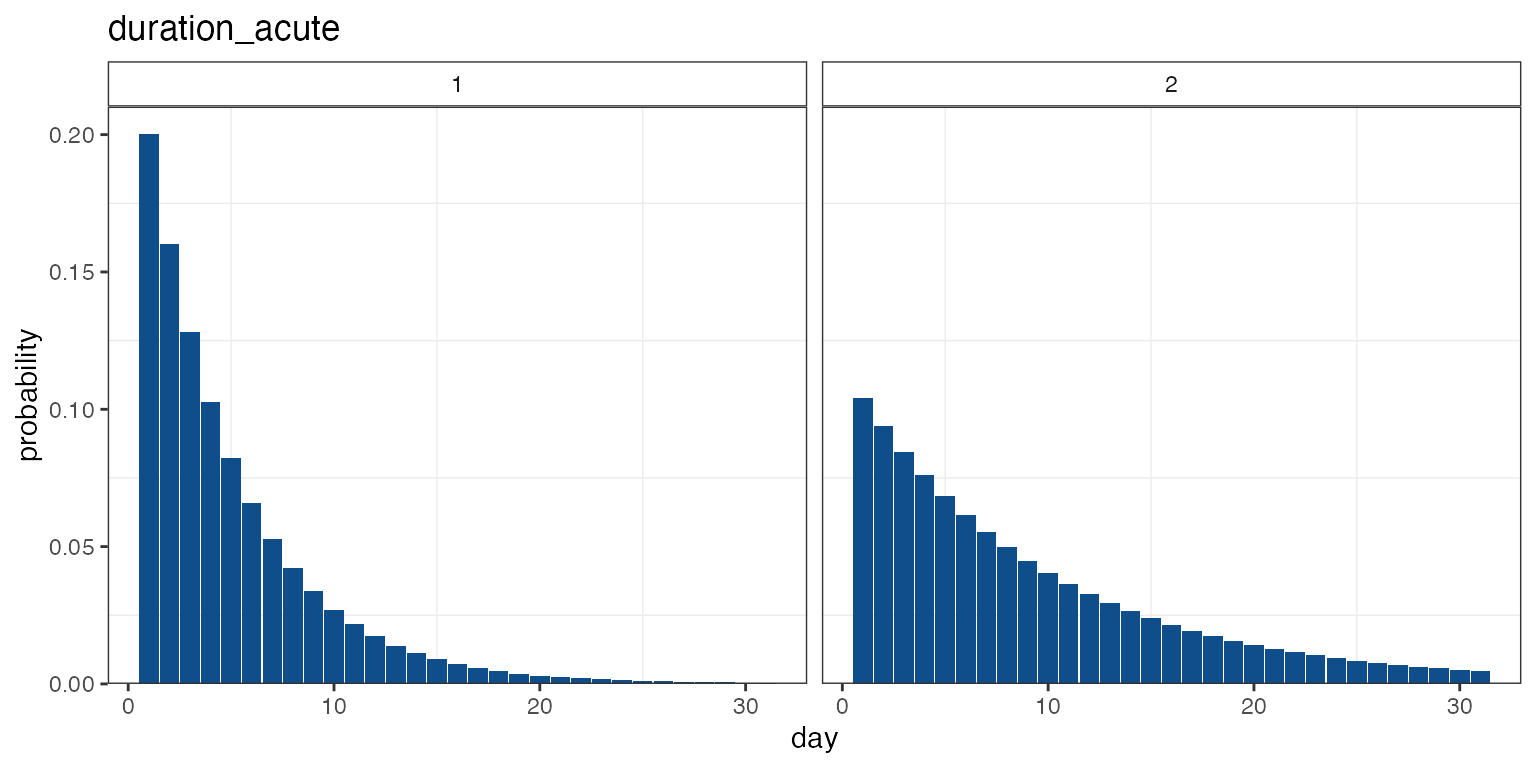
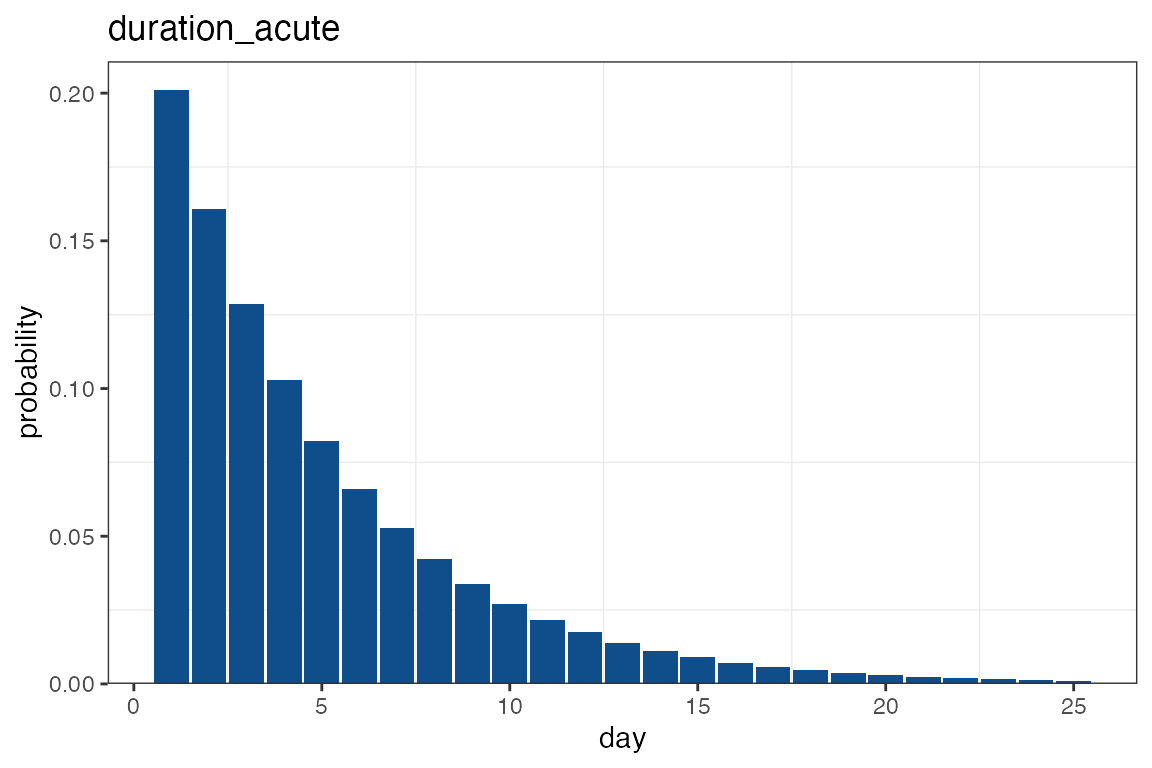
updated documentation, including trying to make figure plotting simpler

Changed region(s): [[0.0, 0.0938, 1.0, 0.9375], [0.0625, 0.0, 0.3125, 0.0625], [0.5, 0.9375, 0.5625, 1.0]]

diff --git a/docs/articles/model_description.html b/docs/articles/model_description.html
@@ -83,7 +83,7 @@
       <h1 data-toc-skip>Transmission Model Details</h1>
                         <h4 class="author">Bob Verity</h4>
             
-            <h4 class="date">2021-01-22</h4>
+            <h4 class="date">2021-01-23</h4>
       
       <small class="dont-index">Source: <a href="https://github.com/mrc-ide/SIMPLEGEN/blob/master/vignettes/model_description.Rmd"><code>vignettes/model_description.Rmd</code></a></small>
       <div class="hidden name"><code>model_description.Rmd</code></div>
@@ -93,8 +93,13 @@
     
     
 <!---
-Example comment
+This section sets the font size of figure captions
 -->
+<style>
+p.caption {
+  font-size: 0.9em;
+}
+</style>
 <p>The first step in the SIMPLEGEN pipeline is to simulate from an epidemiological transmission model. An inbuilt transmission model is included with the program to make life easier, but any transmission model can be used as long as it can produce output in a standardised format. The inbuilt model is designed to be as simple as possible but no simpler - it does not attempt to be a complete phenomenological description of the malaria life cycle, but rather a cartoon that captures key relationships. It is also designed to be highly flexible, giving the user greater control over specific assumptions.</p>
 <p>This vignette gives a high-level description of the inbuilt transmission model.</p>
 <div id="inoculations-and-host-states" class="section level3">
@@ -103,9 +108,11 @@ Example comment
 <p>The most important concept in the model is the idea of an “inoculation”, defined here as a population of parasites that are passed from mosquito to human host upon successful infection. Each host within the model can be thought of having multiple inoculation “slots”, and each new inoculation falls into a new slot. There are a finite number of slots available per host, defined by <code>max_inoculations</code>, but most of the time we can set this number to be large enough that hosts never saturate all their slots.</p>
 <p>Each inoculation can be thought of as an independent episode of malaria that goes through the following stages: 1) latent (liver stage) infection, 2) acute blood-stage, 3) chronic blood-stage, 4) clearance. Inoculations can pass through all four stages in order, or they can skip over the acute or chronic stages depending on the model parameters (see <strong>Figure 3</strong>). The acute stage essentially represents the symptomatic stage of infection, although the word “acute” has been used rather than “symptomatic” to avoid forcing a clinical interpretation on the model. The chronic stage is designed to capture long-lasting infections, including possible asymptomatic and/or sub-patent stages (more on detection later).</p>
 <p>The state of a host is defined directly from the state of its inoculations. If there are ANY acute inoculations then the host is in the acute state, otherwise, if there are ANY chronic inoculations then the host is in the chronic state, otherwise, if there are ANY latent inoculations then the host is in the exposed state, otherwise the host is in the susceptible state. This can be seen in <strong>Figure 1</strong>, which shows the host state for a simple case of two overlapping inoculations.</p>
-<img src="https://raw.githubusercontent.com/mrc-ide/SIMPLEGEN/master/R_ignore/images/progression1.png"><font size="2">
-<figcaption><strong>Figure 1</strong> The host carries two inoculations (horizontal boxes), each of which goes through a latent stage and acute and chronic stages before clearing naturally. The host state is dictated from the inoculation states.
-</figcaption><p></p></font>
+<div class="figure">
+<img src="../R_ignore/images/progression1.png" alt="**Figure 1** The host carries two inoculations (horizontal boxes), each of which goes through a latent stage and acute and chronic stages before clearing naturally. The host state is dictated from the inoculation states" width="100%"><p class="caption">
+<strong>Figure 1</strong> The host carries two inoculations (horizontal boxes), each of which goes through a latent stage and acute and chronic stages before clearing naturally. The host state is dictated from the inoculation states
+</p>
+</div>
 <p>The only host state that is not dictated directly from its inoculations is the treated (aka prophylactic) state. Treatment is described fully in a later section, but in simple terms treatment causes all blood-stage infections to clear immediately. Liver-stage infections are not cleared, i.e. treatment does not represent a radical cure. After treatment, the host enters a prophylactic state in which new liver-stage infections can occur, but any inoculations leaving the liver within the prophylactic period are immediately cured. Eventually the prophylaxis wears off and the host transitions back into the susceptible or exposed state. <strong>Figure 2</strong> shows a second example of host states, this time for a more complex case involving treatment and prophylaxis.</p>
 <img src="https://raw.githubusercontent.com/mrc-ide/SIMPLEGEN/master/R_ignore/images/progression2.png"><font size="2">
 <figcaption><strong>Figure 2</strong> The host acquires two inoculations, and later receives treatment and enters a prophylactic state. During this prophylactic period a new liver-stage inoculation takes hold, but this leaves the liver within the prophylactic period and is therefore immediately cured. A second liver-stage inoculation occurs within the prophylactic period, but this one leaves the liver outside the prophylactic period and so proceeds as normal.
@@ -163,14 +170,14 @@ Example comment
 <code class="sourceCode R"><span class="fu"><a href="../reference/simplegen_project.html">simplegen_project</a></span><span class="op">(</span><span class="op">)</span> <span class="op">%&gt;%</span>
   <span class="fu"><a href="../reference/define_epi_params.html">define_epi_params</a></span><span class="op">(</span><span class="op">)</span> <span class="op">%&gt;%</span>
   <span class="fu"><a href="../reference/plot_epi_distribution.html">plot_epi_distribution</a></span><span class="op">(</span>name <span class="op">=</span> <span class="st">"duration_acute"</span><span class="op">)</span></code></pre></div>
-<p><img src="model_description_files/figure-html/unnamed-chunk-2-1.png" width="576"></p>
+<p><img src="model_description_files/figure-html/unnamed-chunk-3-1.png" width="576"></p>
 <p>In the case of list inputs, all distributions are plotted together:</p>
 <div class="sourceCode" id="cb2"><pre class="downlit sourceCode r">
 <code class="sourceCode R"><span class="fu"><a href="../reference/simplegen_project.html">simplegen_project</a></span><span class="op">(</span><span class="op">)</span> <span class="op">%&gt;%</span>
   <span class="fu"><a href="../reference/define_epi_params.html">define_epi_params</a></span><span class="op">(</span>duration_acute <span class="op">=</span> <span class="fu"><a href="https://rdrr.io/r/base/list.html">list</a></span><span class="op">(</span><span class="fu"><a href="https://rdrr.io/r/stats/Geometric.html">dgeom</a></span><span class="op">(</span><span class="fl">0</span><span class="op">:</span><span class="fl">30</span>, <span class="fl">0.2</span><span class="op">)</span>,
                                           <span class="fu"><a href="https://rdrr.io/r/stats/Geometric.html">dgeom</a></span><span class="op">(</span><span class="fl">0</span><span class="op">:</span><span class="fl">30</span>, <span class="fl">0.1</span><span class="op">)</span><span class="op">)</span><span class="op">)</span> <span class="op">%&gt;%</span>
   <span class="fu"><a href="../reference/plot_epi_distribution.html">plot_epi_distribution</a></span><span class="op">(</span>name <span class="op">=</span> <span class="st">"duration_acute"</span><span class="op">)</span></code></pre></div>
-<p><img src="model_description_files/figure-html/unnamed-chunk-3-1.png" width="768"></p>
+<p><img src="model_description_files/figure-html/unnamed-chunk-4-1.png" width="768"></p>
 </div>
 </div>
 <div id="treatment" class="section level3">
@@ -183,7 +190,7 @@ Example comment
 <code class="sourceCode R"><span class="fu"><a href="../reference/simplegen_project.html">simplegen_project</a></span><span class="op">(</span><span class="op">)</span> <span class="op">%&gt;%</span>
   <span class="fu"><a href="../reference/define_epi_params.html">define_epi_params</a></span><span class="op">(</span>treatment_seeking_mean <span class="op">=</span> <span class="fl">0.7</span>, treatment_seeking_sd <span class="op">=</span> <span class="fl">0.2</span><span class="op">)</span> <span class="op">%&gt;%</span>
   <span class="fu"><a href="../reference/plot_treatment_seeking.html">plot_treatment_seeking</a></span><span class="op">(</span><span class="op">)</span></code></pre></div>
-<p><img src="model_description_files/figure-html/unnamed-chunk-4-1.png" width="576"></p>
+<p><img src="model_description_files/figure-html/unnamed-chunk-5-1.png" width="576"></p>
 <p>The dashed line shows that at a population level there is a 70% chance of seeking treatment for malaria, but there is also considerable spread around this value. Each host has a value <span class="math inline">\(p_i\)</span> drawn from this distribution once at birth. For example, imagine a single unlucky individual for which <span class="math inline">\(p_i = 0.1\)</span>. This individual has poor access to malaria treatment, either for economic reasons or geographic reasons or whatever. If this individual becomes infected <em>and</em> if clinical symptoms occur <em>before</em> the disease has chance to clear naturally, then this individual makes the decision whether to obtain treatment, with only a 10% chance of choosing to do so. If they choose not to seek treatment then the disease continues until it clears naturally.</p>
 </div>
 <div id="infectivity-and-mosquitoes" class="section level3">

diff --git a/docs/articles/simulating_relatedness.html b/docs/articles/simulating_relatedness.html
@@ -5,13 +5,13 @@
 <meta charset="utf-8">
 <meta http-equiv="X-UA-Compatible" content="IE=edge">
 <meta name="viewport" content="width=device-width, initial-scale=1.0">
-<title>Installation • SIMPLEGEN</title>
+<title>Simulating Relatedness • SIMPLEGEN</title>
 <!-- jquery --><script src="https://cdnjs.cloudflare.com/ajax/libs/jquery/3.4.1/jquery.min.js" integrity="sha256-CSXorXvZcTkaix6Yvo6HppcZGetbYMGWSFlBw8HfCJo=" crossorigin="anonymous"></script><!-- Bootstrap --><link href="https://cdnjs.cloudflare.com/ajax/libs/bootswatch/3.4.0/flatly/bootstrap.min.css" rel="stylesheet" crossorigin="anonymous">
 <script src="https://cdnjs.cloudflare.com/ajax/libs/twitter-bootstrap/3.4.1/js/bootstrap.min.js" integrity="sha256-nuL8/2cJ5NDSSwnKD8VqreErSWHtnEP9E7AySL+1ev4=" crossorigin="anonymous"></script><!-- bootstrap-toc --><link rel="stylesheet" href="../bootstrap-toc.css">
 <script src="../bootstrap-toc.js"></script><!-- Font Awesome icons --><link rel="stylesheet" href="https://cdnjs.cloudflare.com/ajax/libs/font-awesome/5.12.1/css/all.min.css" integrity="sha256-mmgLkCYLUQbXn0B1SRqzHar6dCnv9oZFPEC1g1cwlkk=" crossorigin="anonymous">
 <link rel="stylesheet" href="https://cdnjs.cloudflare.com/ajax/libs/font-awesome/5.12.1/css/v4-shims.min.css" integrity="sha256-wZjR52fzng1pJHwx4aV2AO3yyTOXrcDW7jBpJtTwVxw=" crossorigin="anonymous">
 <!-- clipboard.js --><script src="https://cdnjs.cloudflare.com/ajax/libs/clipboard.js/2.0.6/clipboard.min.js" integrity="sha256-inc5kl9MA1hkeYUt+EC3BhlIgyp/2jDIyBLS6k3UxPI=" crossorigin="anonymous"></script><!-- headroom.js --><script src="https://cdnjs.cloudflare.com/ajax/libs/headroom/0.11.0/headroom.min.js" integrity="sha256-AsUX4SJE1+yuDu5+mAVzJbuYNPHj/WroHuZ8Ir/CkE0=" crossorigin="anonymous"></script><script src="https://cdnjs.cloudflare.com/ajax/libs/headroom/0.11.0/jQuery.headroom.min.js" integrity="sha256-ZX/yNShbjqsohH1k95liqY9Gd8uOiE1S4vZc+9KQ1K4=" crossorigin="anonymous"></script><!-- pkgdown --><link href="../pkgdown.css" rel="stylesheet">
-<script src="../pkgdown.js"></script><meta property="og:title" content="Installation">
+<script src="../pkgdown.js"></script><meta property="og:title" content="Simulating Relatedness">
 <meta property="og:description" content="SIMPLEGEN">
 <!-- mathjax --><script src="https://cdnjs.cloudflare.com/ajax/libs/mathjax/2.7.5/MathJax.js" integrity="sha256-nvJJv9wWKEm88qvoQl9ekL2J+k/RWIsaSScxxlsrv8k=" crossorigin="anonymous"></script><script src="https://cdnjs.cloudflare.com/ajax/libs/mathjax/2.7.5/config/TeX-AMS-MML_HTMLorMML.js" integrity="sha256-84DKXVJXs0/F8OTMzX4UR909+jtl4G7SPypPavF+GfA=" crossorigin="anonymous"></script><!--[if lt IE 9]>
 <script src="https://oss.maxcdn.com/html5shiv/3.7.3/html5shiv.min.js"></script>
@@ -77,66 +77,29 @@
 
       
 
-      </header><script src="installation_files/accessible-code-block-0.0.1/empty-anchor.js"></script><div class="row">
+      </header><script src="simulating_relatedness_files/accessible-code-block-0.0.1/empty-anchor.js"></script><div class="row">
   <div class="col-md-9 contents">
     <div class="page-header toc-ignore">
-      <h1 data-toc-skip>Installation</h1>
+      <h1 data-toc-skip>Simulating Relatedness</h1>
                         <h4 class="author">Bob Verity</h4>
             
             <h4 class="date">2021-01-23</h4>
       
-      <small class="dont-index">Source: <a href="https://github.com/mrc-ide/SIMPLEGEN/blob/master/vignettes/installation.Rmd"><code>vignettes/installation.Rmd</code></a></small>
-      <div class="hidden name"><code>installation.Rmd</code></div>
+      <small class="dont-index">Source: <a href="https://github.com/mrc-ide/SIMPLEGEN/blob/master/vignettes/simulating_relatedness.Rmd"><code>vignettes/simulating_relatedness.Rmd</code></a></small>
+      <div class="hidden name"><code>simulating_relatedness.Rmd</code></div>
 
     </div>
 
     
     
-<div id="installing-rcpp" class="section level3">
-<h3 class="hasAnchor">
-<a href="#installing-rcpp" class="anchor"></a>Installing Rcpp</h3>
-<p>SIMPLEGEN relies on the <a href="https://cran.r-project.org/web/packages/Rcpp/index.html">Rcpp</a> package, which requires the following OS-specific steps:</p>
-<ul>
-<li>Windows
-<ul>
-<li>Download and install the appropriate version of <a href="https://cran.rstudio.com/bin/windows/Rtools/">Rtools</a> for your version of R. On installation, ensure you check the box to arrange your system PATH as recommended by Rtools</li>
-</ul>
-</li>
-<li>Mac OS X
-<ul>
-<li>Download and install <a href="http://itunes.apple.com/us/app/xcode/id497799835?mt=12">XCode</a>
-</li>
-<li>Within XCode go to Preferences : Downloads and install the Command Line Tools</li>
-</ul>
-</li>
-<li>Linux (Debian/Ubuntu)
-<ul>
-<li>
-<p>Install the core software development utilities required for R package development as well as LaTeX by executing</p>
-<pre><code>sudo apt-get install r-base-dev texlive-full</code></pre>
-</li>
-</ul>
-</li>
-</ul>
-</div>
-<div id="installing-and-loading-simplegen" class="section level3">
-<h3 class="hasAnchor">
-<a href="#installing-and-loading-simplegen" class="anchor"></a>Installing and loading SIMPLEGEN</h3>
-<p>Next, in R, ensure that you have the <a href="https://www.rstudio.com/products/rpackages/devtools/">devtools</a> package installed by running</p>
-<div class="sourceCode" id="cb2"><pre class="downlit sourceCode r">
-<code class="sourceCode R"><span class="fu"><a href="https://rdrr.io/r/utils/install.packages.html">install.packages</a></span><span class="op">(</span><span class="st">"devtools"</span>, repos<span class="op">=</span><span class="st">'http://cran.us.r-project.org'</span><span class="op">)</span></code></pre></div>
-<p>Then install the SIMPLEGEN package directly from GitHub by running</p>
-<div class="sourceCode" id="cb3"><pre class="downlit sourceCode r">
-<code class="sourceCode R"><span class="fu">devtools</span><span class="fu">::</span><span class="fu"><a href="https://devtools.r-lib.org//reference/remote-reexports.html">install_github</a></span><span class="op">(</span><span class="st">"mrc-ide/SIMPLEGEN"</span><span class="op">)</span></code></pre></div>
-<p>If you have any problems installing, please <a href="https://github.com/mrc-ide/SIMPLEGEN/issues">raise an issue</a> on github.</p>
-<p>Assuming everything installed correctly, we need to load the package:</p>
-<div class="sourceCode" id="cb4"><pre class="downlit sourceCode r">
-<code class="sourceCode R"><span class="kw"><a href="https://rdrr.io/r/base/library.html">library</a></span><span class="op">(</span><span class="va">SIMPLEGEN</span><span class="op">)</span></code></pre></div>
-<p>You can test that the package is loaded and working by running the following command, which should produce the following output:</p>
-<div class="sourceCode" id="cb5"><pre class="downlit sourceCode r">
-<code class="sourceCode R"><span class="fu"><a href="../reference/check_SIMPLEGEN_loaded.html">check_SIMPLEGEN_loaded</a></span><span class="op">(</span><span class="op">)</span></code></pre></div>
-<pre><code>## SIMPLEGEN loaded successfully!</code></pre>
-</div>
+<!---
+Example comment
+-->
+<p>We have a tree that tells us how ancestral inoculations map to the present-day sample. But we defined an inoculation as “a population of parasites that are passed from mosquito to human host upon successful infection”, meaning a single inoculation can represent multiple parasite genotypes. In this step we go from inoculations to genotypes by simulating from a genetic model.</p>
+<p>Note that we are still thinking in terms of ancestry and relatedness at this stage, rather than alleles and homozygosity which will come later. To make this clear, we will use the term “lineage” to describe genotypes purely in terms of their ancestry.</p>
+<p>Simulation steps: - pruned transmission record gives us a set of source inoculation IDs, and a target inoculation ID. - assume that each source ID has a vector of lineage IDs and lineage densities - draw the number of oocysts from distribution - for each oocyst, draw the parental lineages from their relative densities - simulate recombination - draw new densities for each oocyst product from gamma with scale alpha - draw number of “hepatocytes” from user-defined distribution - sample oocyst products up to number of hepatocytes - simplfy by grouping together identical clonal products (and their densities) - end result is a new vector of lineage IDs and densities</p>
+<p>When drawing de novo, start with a single unique lineage per inoculation. Each individual is monoclonally infected with a unique lineage. Over time, polyclonal infections will accrue and unique lineages will be reshuffled through recombination and lost to drift, meaning the starting condition of the population will be “forgotten”. We can keep track of some key genetic measures to work out if we have burned in the simulation for long enough (see implementation vignette (TODO)).</p>
+<p>General comments - there is a trade-off between the diversity-generating process of recombination and the diversity-reducing processes of finite sampling - high numbers of oocysts, hepatocytes, and a high value of alpha all serve to increase diversity - the gamma density draws ensure that relative densities are dirichlet</p>
   </div>
 
   <div class="col-md-3 hidden-xs hidden-sm" id="pkgdown-sidebar">

diff --git a/docs/articles/transmission_record.html b/docs/articles/transmission_record.html
@@ -5,13 +5,13 @@
 <meta charset="utf-8">
 <meta http-equiv="X-UA-Compatible" content="IE=edge">
 <meta name="viewport" content="width=device-width, initial-scale=1.0">
-<title>Installation • SIMPLEGEN</title>
+<title>The Transmission Record • SIMPLEGEN</title>
 <!-- jquery --><script src="https://cdnjs.cloudflare.com/ajax/libs/jquery/3.4.1/jquery.min.js" integrity="sha256-CSXorXvZcTkaix6Yvo6HppcZGetbYMGWSFlBw8HfCJo=" crossorigin="anonymous"></script><!-- Bootstrap --><link href="https://cdnjs.cloudflare.com/ajax/libs/bootswatch/3.4.0/flatly/bootstrap.min.css" rel="stylesheet" crossorigin="anonymous">
 <script src="https://cdnjs.cloudflare.com/ajax/libs/twitter-bootstrap/3.4.1/js/bootstrap.min.js" integrity="sha256-nuL8/2cJ5NDSSwnKD8VqreErSWHtnEP9E7AySL+1ev4=" crossorigin="anonymous"></script><!-- bootstrap-toc --><link rel="stylesheet" href="../bootstrap-toc.css">
 <script src="../bootstrap-toc.js"></script><!-- Font Awesome icons --><link rel="stylesheet" href="https://cdnjs.cloudflare.com/ajax/libs/font-awesome/5.12.1/css/all.min.css" integrity="sha256-mmgLkCYLUQbXn0B1SRqzHar6dCnv9oZFPEC1g1cwlkk=" crossorigin="anonymous">
 <link rel="stylesheet" href="https://cdnjs.cloudflare.com/ajax/libs/font-awesome/5.12.1/css/v4-shims.min.css" integrity="sha256-wZjR52fzng1pJHwx4aV2AO3yyTOXrcDW7jBpJtTwVxw=" crossorigin="anonymous">
 <!-- clipboard.js --><script src="https://cdnjs.cloudflare.com/ajax/libs/clipboard.js/2.0.6/clipboard.min.js" integrity="sha256-inc5kl9MA1hkeYUt+EC3BhlIgyp/2jDIyBLS6k3UxPI=" crossorigin="anonymous"></script><!-- headroom.js --><script src="https://cdnjs.cloudflare.com/ajax/libs/headroom/0.11.0/headroom.min.js" integrity="sha256-AsUX4SJE1+yuDu5+mAVzJbuYNPHj/WroHuZ8Ir/CkE0=" crossorigin="anonymous"></script><script src="https://cdnjs.cloudflare.com/ajax/libs/headroom/0.11.0/jQuery.headroom.min.js" integrity="sha256-ZX/yNShbjqsohH1k95liqY9Gd8uOiE1S4vZc+9KQ1K4=" crossorigin="anonymous"></script><!-- pkgdown --><link href="../pkgdown.css" rel="stylesheet">
-<script src="../pkgdown.js"></script><meta property="og:title" content="Installation">
+<script src="../pkgdown.js"></script><meta property="og:title" content="The Transmission Record">
 <meta property="og:description" content="SIMPLEGEN">
 <!-- mathjax --><script src="https://cdnjs.cloudflare.com/ajax/libs/mathjax/2.7.5/MathJax.js" integrity="sha256-nvJJv9wWKEm88qvoQl9ekL2J+k/RWIsaSScxxlsrv8k=" crossorigin="anonymous"></script><script src="https://cdnjs.cloudflare.com/ajax/libs/mathjax/2.7.5/config/TeX-AMS-MML_HTMLorMML.js" integrity="sha256-84DKXVJXs0/F8OTMzX4UR909+jtl4G7SPypPavF+GfA=" crossorigin="anonymous"></script><!--[if lt IE 9]>
 <script src="https://oss.maxcdn.com/html5shiv/3.7.3/html5shiv.min.js"></script>
@@ -77,67 +77,59 @@
 
       
 
-      </header><script src="installation_files/accessible-code-block-0.0.1/empty-anchor.js"></script><div class="row">
+      </header><script src="transmission_record_files/accessible-code-block-0.0.1/empty-anchor.js"></script><div class="row">
   <div class="col-md-9 contents">
     <div class="page-header toc-ignore">
-      <h1 data-toc-skip>Installation</h1>
+      <h1 data-toc-skip>The Transmission Record</h1>
                         <h4 class="author">Bob Verity</h4>
             
             <h4 class="date">2021-01-23</h4>
       
-      <small class="dont-index">Source: <a href="https://github.com/mrc-ide/SIMPLEGEN/blob/master/vignettes/installation.Rmd"><code>vignettes/installation.Rmd</code></a></small>
-      <div class="hidden name"><code>installation.Rmd</code></div>
+      <small class="dont-index">Source: <a href="https://github.com/mrc-ide/SIMPLEGEN/blob/master/vignettes/transmission_record.Rmd"><code>vignettes/transmission_record.Rmd</code></a></small>
+      <div class="hidden name"><code>transmission_record.Rmd</code></div>
 
     </div>
 
     
     
-<div id="installing-rcpp" class="section level3">
-<h3 class="hasAnchor">
-<a href="#installing-rcpp" class="anchor"></a>Installing Rcpp</h3>
-<p>SIMPLEGEN relies on the <a href="https://cran.r-project.org/web/packages/Rcpp/index.html">Rcpp</a> package, which requires the following OS-specific steps:</p>
+<!---
+Example comment
+-->
+<p>The transmission record is - a record of events in the simulation model</p>
+<p>The overall purpose of the transmission record is - to store the minimum amount of information that permits us to generate genetic data</p>
+<p>This step has two inputs: - the full transmission record of inoculations - the inoculation IDs corresponding to the sampled hosts And one output: - the pruned record</p>
+<p>Vignette sections:</p>
 <ul>
-<li>Windows
+<li>Basic description of record
 <ul>
-<li>Download and install the appropriate version of <a href="https://cran.rstudio.com/bin/windows/Rtools/">Rtools</a> for your version of R. On installation, ensure you check the box to arrange your system PATH as recommended by Rtools</li>
+<li>we need to track inoculations not hosts in order to track potential of super-infection and co-transmission</li>
+<li>figure showing two generations of hosts with intervening mosquitoes and inoculations passing between them</li>
+<li>side-by-side with text version of record</li>
 </ul>
 </li>
-<li>Mac OS X
+<li>More complex example involving partial mosquito feeds
 <ul>
-<li>Download and install <a href="http://itunes.apple.com/us/app/xcode/id497799835?mt=12">XCode</a>
-</li>
-<li>Within XCode go to Preferences : Downloads and install the Command Line Tools</li>
+<li>figure shows mosquito obtaining inoculations from multiple sources, and passing on to multiple hosts</li>
+<li>another side-by-side text version</li>
+<li>assumption that feeds occur on same day. i.e. some information is lost, but hopefully justifiable</li>
 </ul>
 </li>
-<li>Linux (Debian/Ubuntu)
+<li>Pruning
 <ul>
-<li>
-<p>Install the core software development utilities required for R package development as well as LaTeX by executing</p>
-<pre><code>sudo apt-get install r-base-dev texlive-full</code></pre>
+<li>sample usually a small fraction of total population. Most of these events have no relevance to sample.</li>
+<li>transmission model also needs to output the inoculation IDs of the hosts that make up the final sample. This allows us to prune the tree</li>
+<li>coalescent-style figure showing pruning. Side-by-side with pruned record (and full?)</li>
+<li>comment on reduction in size. Important as each inoculation will eventually represent a very large amount of information (potentially up to whole-genome scale) so reductions at this stage are welcome.</li>
+</ul>
 </li>
+<li>Conclusions
+<ul>
+<li>recap purpose and limitations of trasmission record</li>
+<li>note that things like migration are subsumed entirely into the record. Once we have the record we don’t need to know demes.</li>
 </ul>
 </li>
 </ul>
 </div>
-<div id="installing-and-loading-simplegen" class="section level3">
-<h3 class="hasAnchor">
-<a href="#installing-and-loading-simplegen" class="anchor"></a>Installing and loading SIMPLEGEN</h3>
-<p>Next, in R, ensure that you have the <a href="https://www.rstudio.com/products/rpackages/devtools/">devtools</a> package installed by running</p>
-<div class="sourceCode" id="cb2"><pre class="downlit sourceCode r">
-<code class="sourceCode R"><span class="fu"><a href="https://rdrr.io/r/utils/install.packages.html">install.packages</a></span><span class="op">(</span><span class="st">"devtools"</span>, repos<span class="op">=</span><span class="st">'http://cran.us.r-project.org'</span><span class="op">)</span></code></pre></div>
-<p>Then install the SIMPLEGEN package directly from GitHub by running</p>
-<div class="sourceCode" id="cb3"><pre class="downlit sourceCode r">
-<code class="sourceCode R"><span class="fu">devtools</span><span class="fu">::</span><span class="fu"><a href="https://devtools.r-lib.org//reference/remote-reexports.html">install_github</a></span><span class="op">(</span><span class="st">"mrc-ide/SIMPLEGEN"</span><span class="op">)</span></code></pre></div>
-<p>If you have any problems installing, please <a href="https://github.com/mrc-ide/SIMPLEGEN/issues">raise an issue</a> on github.</p>
-<p>Assuming everything installed correctly, we need to load the package:</p>
-<div class="sourceCode" id="cb4"><pre class="downlit sourceCode r">
-<code class="sourceCode R"><span class="kw"><a href="https://rdrr.io/r/base/library.html">library</a></span><span class="op">(</span><span class="va">SIMPLEGEN</span><span class="op">)</span></code></pre></div>
-<p>You can test that the package is loaded and working by running the following command, which should produce the following output:</p>
-<div class="sourceCode" id="cb5"><pre class="downlit sourceCode r">
-<code class="sourceCode R"><span class="fu"><a href="../reference/check_SIMPLEGEN_loaded.html">check_SIMPLEGEN_loaded</a></span><span class="op">(</span><span class="op">)</span></code></pre></div>
-<pre><code>## SIMPLEGEN loaded successfully!</code></pre>
-</div>
-  </div>
 
   <div class="col-md-3 hidden-xs hidden-sm" id="pkgdown-sidebar">
 

diff --git a/docs/articles/basic_tutorial.html b/docs/articles/basic_tutorial.html
@@ -124,7 +124,7 @@
 <span id="cb5-4"><a href="#cb5-4"></a>  <span class="op">|</span><span class="st">                                                                            </span></span>
 <span id="cb5-5"><a href="#cb5-5"></a><span class="st">  </span><span class="er">|======================================================================|</span><span class="st"> </span><span class="dv">100</span>%</span>
 <span id="cb5-6"><a href="#cb5-6"></a><span class="co">#&gt; </span></span>
-<span id="cb5-7"><a href="#cb5-7"></a><span class="co">#&gt; completed in 0.029710 seconds</span></span></code></pre></div>
+<span id="cb5-7"><a href="#cb5-7"></a><span class="co">#&gt; completed in 0.030827 seconds</span></span></code></pre></div>
 <p>Looking at the project again we now see that we have some results:</p>
 <div class="sourceCode" id="cb6"><pre class="downlit sourceCode r">
 <code class="sourceCode R"><span class="va">myproj</span>
@@ -179,7 +179,7 @@
 <span id="cb11-4"><a href="#cb11-4"></a>  <span class="op">|</span><span class="st">                                                                            </span></span>
 <span id="cb11-5"><a href="#cb11-5"></a><span class="st">  </span><span class="er">|======================================================================|</span><span class="st"> </span><span class="dv">100</span>%</span>
 <span id="cb11-6"><a href="#cb11-6"></a><span class="co">#&gt; </span></span>
-<span id="cb11-7"><a href="#cb11-7"></a><span class="co">#&gt; completed in 0.085314 seconds</span></span></code></pre></div>
+<span id="cb11-7"><a href="#cb11-7"></a><span class="co">#&gt; completed in 0.088054 seconds</span></span></code></pre></div>
 <p>Now when plotting results we can use the <code>deme</code> argument to specify which deme to plot:</p>
 <div class="sourceCode" id="cb12"><pre class="downlit sourceCode r">
 <code class="sourceCode R"><span class="fu"><a href="../reference/plot_daily_states.html">plot_daily_states</a></span><span class="op">(</span><span class="va">myproj</span>, states <span class="op">=</span> <span class="fu"><a href="https://rdrr.io/r/base/c.html">c</a></span><span class="op">(</span><span class="st">"A"</span>, <span class="st">"C"</span>, <span class="st">"P"</span><span class="op">)</span>, deme <span class="op">=</span> <span class="fl">1</span><span class="op">)</span></code></pre></div>

diff --git a/docs/articles/simulating_relatedness_files/accessible-code-block-0.0.1/empty-anchor.js b/docs/articles/simulating_relatedness_files/accessible-code-block-0.0.1/empty-anchor.js
@@ -1,0 +1,15 @@
+// Hide empty <a> tag within highlighted CodeBlock for screen reader accessibility (see https://github.com/jgm/pandoc/issues/6352#issuecomment-626106786) -->
+// v0.0.1
+// Written by JooYoung Seo (jooyoung@psu.edu) and Atsushi Yasumoto on June 1st, 2020.
+
+document.addEventListener('DOMContentLoaded', function() {
+  const codeList = document.getElementsByClassName("sourceCode");
+  for (var i = 0; i < codeList.length; i++) {
+    var linkList = codeList[i].getElementsByTagName('a');
+    for (var j = 0; j < linkList.length; j++) {
+      if (linkList[j].innerHTML === "") {
+        linkList[j].setAttribute('aria-hidden', 'true');
+      }
+    }
+  }
+});

diff --git a/docs/articles/transmission_record_files/accessible-code-block-0.0.1/empty-anchor.js b/docs/articles/transmission_record_files/accessible-code-block-0.0.1/empty-anchor.js
@@ -1,0 +1,15 @@
+// Hide empty <a> tag within highlighted CodeBlock for screen reader accessibility (see https://github.com/jgm/pandoc/issues/6352#issuecomment-626106786) -->
+// v0.0.1
+// Written by JooYoung Seo (jooyoung@psu.edu) and Atsushi Yasumoto on June 1st, 2020.
+
+document.addEventListener('DOMContentLoaded', function() {
+  const codeList = document.getElementsByClassName("sourceCode");
+  for (var i = 0; i < codeList.length; i++) {
+    var linkList = codeList[i].getElementsByTagName('a');
+    for (var j = 0; j < linkList.length; j++) {
+      if (linkList[j].innerHTML === "") {
+        linkList[j].setAttribute('aria-hidden', 'true');
+      }
+    }
+  }
+});

diff --git a/docs/articles/index.html b/docs/articles/index.html
@@ -134,6 +134,10 @@
         <dd></dt>
         <dt><a href="model_description.html">Transmission Model Details</a></dt>
         <dd></dt>
+        <dt><a href="simulating_relatedness.html">Simulating Relatedness</a></dt>
+        <dd></dt>
+        <dt><a href="transmission_record.html">The Transmission Record</a></dt>
+        <dd></dt>
       </dl>
     </div>
   </div>
